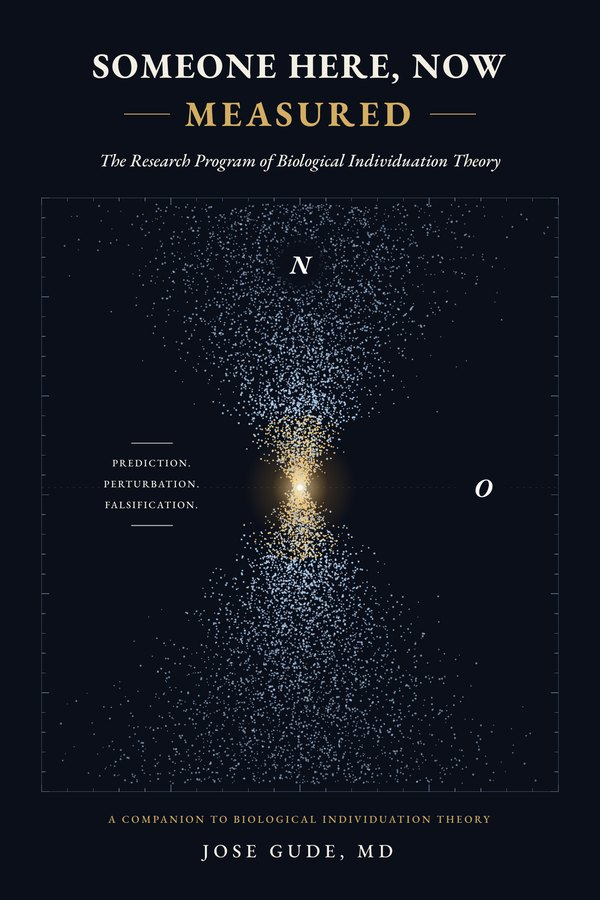
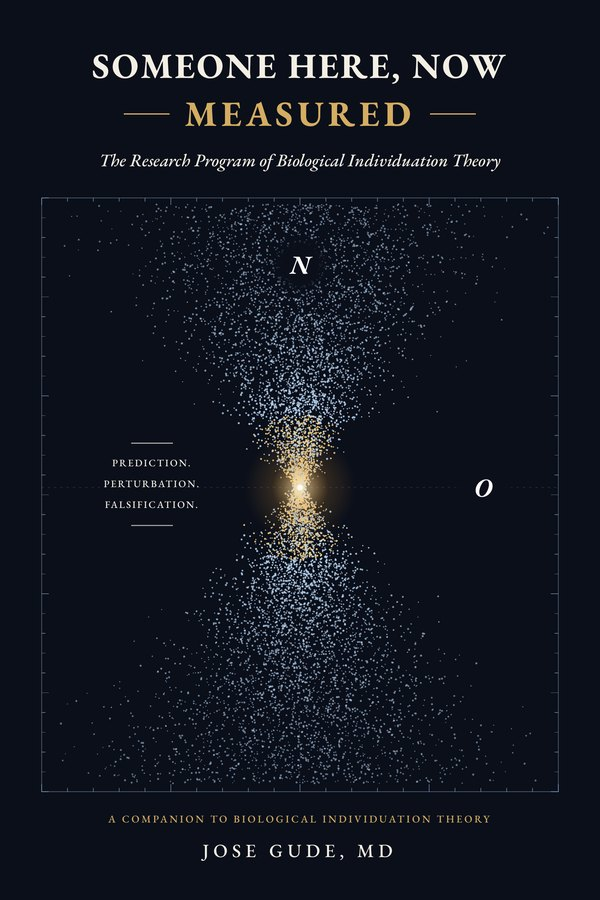
Works in Progress: full BIT cover; covers enlarge when clicked (EN + ES)
BIT now uses the rendered front cover (title and byline included) rather
than the bare artwork. Each cover opens in the site's existing lightbox,
which gains data-full (a larger file for the enlarged view) and keyboard
access (Tab, then Enter or Space).

Claude-Session: https://claude.ai/code/session_01FQfJPEHCVFgFPB9ZRz9oqS

diff --git a/es/works-in-progress.html b/es/works-in-progress.html
@@ -58,7 +58,7 @@
   <p class="eyebrow">No ficción &middot; los libros de BIT</p>
 
   <article class="wip-card" id="bit">
-    <img class="wip-cover" src="../assets/img/bit-cover.jpg" width="600" height="888" alt="Cubierta de Biological Individuation Theory: un reloj de arena de agua azul en remolino con un punto de luz en su centro" loading="lazy">
+    <img class="wip-cover zoomable" src="../assets/img/bit-cover.jpg" width="600" height="900" alt="Cubierta de Biological Individuation Theory: Consciousness, Life, and You — un reloj de arena de agua azul en remolino con un punto de luz en su centro" data-full="../assets/img/bit-cover-large.jpg" loading="lazy">
     <h2><em>Biological Individuation Theory</em></h2>
     <p class="wip-meta">(«Teoría de la individuación biológica») &middot; Conciencia, vida y tú &middot; manuscrito completo, en revisión</p>
     <p>Nos hemos vuelto muy buenos describiendo lo que hacen los cerebros. Por debajo de ese trabajo queda una pregunta: ¿por qué se experimenta algo de todo ello, y por qué se experimenta como <em>alguien</em>? Este libro deja a un lado la primera pregunta y persigue la segunda: ¿qué fija el límite de un sujeto, mantiene unida su experiencia como una sola y la lleva adelante como la misma perspectiva a lo largo de décadas de cambio?</p>
@@ -82,7 +82,7 @@
   </article>
 
   <article class="wip-card" id="shn">
-    <img class="wip-cover" src="../assets/img/shn-cover.jpg" width="600" height="900" alt="Cubierta de Someone Here, Now — Measured: un reloj de arena de puntos de luz dentro de un marco graduado" loading="lazy">
+    <img class="wip-cover zoomable" src="../assets/img/shn-cover.jpg" width="600" height="900" alt="Cubierta de Someone Here, Now — Measured: un reloj de arena de puntos de luz dentro de un marco graduado" data-full="../assets/img/shn-cover-large.jpg" loading="lazy">
     <h2><em>Someone Here, Now &mdash; Measured</em></h2>
     <p class="wip-meta">(«Alguien aquí, ahora &mdash; medido») &middot; El programa de investigación de la teoría de la individuación biológica &middot; borrador completo, sometido a revisión</p>
     <p><strong>¿Cómo podría perder una teoría de la conciencia?</strong> <em>Biological Individuation Theory</em> se preguntaba por qué la experiencia es de alguien y proponía que el organismo vivo es parte de la respuesta. Este volumen complementario se pregunta cómo podría demostrarse que esa propuesta es errónea.</p>
@@ -102,7 +102,7 @@
   </article>
 
   <article class="wip-card" id="shfw">
-    <img class="wip-cover" src="../assets/img/shfw-cover.jpg" width="600" height="857" alt="Cubierta de Someone Here for a While: un libro abierto sobre una mesa de madera a la luz de la tarde" loading="lazy">
+    <img class="wip-cover zoomable" src="../assets/img/shfw-cover.jpg" width="600" height="857" alt="Cubierta de Someone Here for a While: un libro abierto sobre una mesa de madera a la luz de la tarde" data-full="../assets/img/shfw-cover-large.jpg" loading="lazy">
     <h2><em>Someone Here for a While</em></h2>
     <p class="wip-meta">(«Alguien aquí por un tiempo») &middot; Sentido, mortalidad y los extremos abiertos &middot; manuscrito v2.0, en revisión</p>
     <p>El más personal de los tres. Donde el libro de teoría argumenta, este reflexiona: un libro en primera persona, escrito desde la vida de un médico, sobre lo que significa ser alguien durante un tiempo. No es una guía clínica ni una revisión de la literatura, y se apoya en los argumentos de <em>Biological Individuation Theory</em> con ligereza en lugar de repetirlos.</p>
@@ -127,7 +127,7 @@
   <p class="eyebrow">Ficción</p>
 
   <article class="wip-card" id="worldlines">
-    <img class="wip-cover" src="../assets/img/worldlines-cover.jpg" width="600" height="900" alt="Cubierta de Worldlines: finas líneas de luz sobre azul profundo que se cruzan en un punto luminoso" loading="lazy">
+    <img class="wip-cover zoomable" src="../assets/img/worldlines-cover.jpg" width="600" height="900" alt="Cubierta de Worldlines: finas líneas de luz sobre azul profundo que se cruzan en un punto luminoso" data-full="../assets/img/worldlines-cover-large.jpg" loading="lazy">
     <h2><em>Worldlines</em></h2>
     <p class="wip-meta">(«Líneas de universo») &middot; Una novela &middot; borrador completo, en revisión</p>
     <p>A las 3:04 de la madrugada, en un hospital del VA en Boise en 2035, un veterano de noventa y un años que lleva dos sin hablar empieza a describir un parto &mdash; con la voz de su difunta esposa, desde una sala de partos en la que nunca le dejaron entrar. Por la mañana ha muerto, y su hijo confirma detalles que solo su madre podía haber conocido.</p>
@@ -146,7 +146,7 @@
   </article>
 
   <article class="wip-card" id="proper-time">
-    <img class="wip-cover" src="../assets/img/proper-time-cover.jpg" width="600" height="886" alt="Cubierta de Proper Time: un arpa junto a una cama, con una ventana que da a las colinas de Boise al atardecer" loading="lazy">
+    <img class="wip-cover zoomable" src="../assets/img/proper-time-cover.jpg" width="600" height="886" alt="Cubierta de Proper Time: un arpa junto a una cama, con una ventana que da a las colinas de Boise al atardecer" data-full="../assets/img/proper-time-cover-large.jpg" loading="lazy">
     <h2><em>Proper Time</em></h2>
     <p class="wip-meta">(«Tiempo propio») &middot; Una novela &middot; secuela de <em>Worldlines</em> &middot; en preparación: mundo y esquema definidos, redacción aún no iniciada</p>
     <p>Boise, 2046. Naomi Murphy, tanatóloga musical que toca el arpa junto a la cabecera de los moribundos, está tocando para su propia madre cuando la anciana, sumida desde hace años en la demencia, despierta plenamente lúcida durante una hora, la llama por un nombre de infancia que nadie ha usado en décadas y tararea una melodía que Naomi no ha oído nunca. Dos días después su madre ha muerto.</p>
@@ -193,5 +193,6 @@
   </div>
 </footer>
 
+<script src="../assets/js/lightbox.js"></script>
 </body>
 </html>

diff --git a/works-in-progress.html b/works-in-progress.html
@@ -58,7 +58,7 @@
   <p class="eyebrow">Nonfiction &middot; the BIT books</p>
 
   <article class="wip-card" id="bit">
-    <img class="wip-cover" src="assets/img/bit-cover.jpg" width="600" height="888" alt="Cover of Biological Individuation Theory: an hourglass of swirling blue water with a point of light at its waist" loading="lazy">
+    <img class="wip-cover zoomable" src="assets/img/bit-cover.jpg" width="600" height="900" alt="Cover of Biological Individuation Theory: Consciousness, Life, and You — an hourglass of swirling blue water with a point of light at its waist" data-full="assets/img/bit-cover-large.jpg" loading="lazy">
     <h2><em>Biological Individuation Theory</em></h2>
     <p class="wip-meta">Consciousness, Life, and You &middot; complete manuscript, in revision</p>
     <p>We have become very good at describing what brains do. A question remains underneath that work: why is any of it experienced, and why is it experienced as <em>someone</em>? This book sets the first question aside and pursues the second: what fixes the boundary of one subject, holds its experience together as one, and carries it forward as the same perspective through decades of change?</p>
@@ -82,7 +82,7 @@
   </article>
 
   <article class="wip-card" id="shn">
-    <img class="wip-cover" src="assets/img/shn-cover.jpg" width="600" height="900" alt="Cover of Someone Here, Now — Measured: an hourglass of scattered points of light within a measured frame" loading="lazy">
+    <img class="wip-cover zoomable" src="assets/img/shn-cover.jpg" width="600" height="900" alt="Cover of Someone Here, Now — Measured: an hourglass of scattered points of light within a measured frame" data-full="assets/img/shn-cover-large.jpg" loading="lazy">
     <h2><em>Someone Here, Now &mdash; Measured</em></h2>
     <p class="wip-meta">The Research Program of Biological Individuation Theory &middot; full draft, in review</p>
     <p><strong>How could a theory of consciousness lose?</strong> <em>Biological Individuation Theory</em> asked why experience is someone's and proposed that the living organism is part of the answer. This companion volume asks how that proposal could be shown wrong.</p>
@@ -102,7 +102,7 @@
   </article>
 
   <article class="wip-card" id="shfw">
-    <img class="wip-cover" src="assets/img/shfw-cover.jpg" width="600" height="857" alt="Cover of Someone Here for a While: an open book on a wooden table in late sunlight" loading="lazy">
+    <img class="wip-cover zoomable" src="assets/img/shfw-cover.jpg" width="600" height="857" alt="Cover of Someone Here for a While: an open book on a wooden table in late sunlight" data-full="assets/img/shfw-cover-large.jpg" loading="lazy">
     <h2><em>Someone Here for a While</em></h2>
     <p class="wip-meta">Meaning, Mortality, and the Open Bookends &middot; manuscript v2.0, in revision</p>
     <p>The most personal of the three. Where the theory book argues, this one reflects: a first-person book, written from a physician's life, about what it means to be someone for a while. It is not a clinical guide or a review of the literature, and it leans on the arguments of <em>Biological Individuation Theory</em> lightly rather than repeating them.</p>
@@ -127,7 +127,7 @@
   <p class="eyebrow">Fiction</p>
 
   <article class="wip-card" id="worldlines">
-    <img class="wip-cover" src="assets/img/worldlines-cover.jpg" width="600" height="900" alt="Cover of Worldlines: fine lines of light on deep blue, crossing at a glowing point" loading="lazy">
+    <img class="wip-cover zoomable" src="assets/img/worldlines-cover.jpg" width="600" height="900" alt="Cover of Worldlines: fine lines of light on deep blue, crossing at a glowing point" data-full="assets/img/worldlines-cover-large.jpg" loading="lazy">
     <h2><em>Worldlines</em></h2>
     <p class="wip-meta">A novel &middot; complete draft, in revision</p>
     <p>At 3:04 in the morning, in a VA hospital in Boise in 2035, a ninety-one-year-old veteran who has not spoken in two years begins to describe giving birth &mdash; in his dead wife's voice, from a delivery room he was never allowed to enter. By morning he is dead, and his son confirms details only his mother could have known.</p>
@@ -146,7 +146,7 @@
   </article>
 
   <article class="wip-card" id="proper-time">
-    <img class="wip-cover" src="assets/img/proper-time-cover.jpg" width="600" height="886" alt="Cover of Proper Time: a harp beside a bed in a room whose window looks out on the Boise foothills at sunset" loading="lazy">
+    <img class="wip-cover zoomable" src="assets/img/proper-time-cover.jpg" width="600" height="886" alt="Cover of Proper Time: a harp beside a bed in a room whose window looks out on the Boise foothills at sunset" data-full="assets/img/proper-time-cover-large.jpg" loading="lazy">
     <h2><em>Proper Time</em></h2>
     <p class="wip-meta">A novel &middot; sequel to <em>Worldlines</em> &middot; in planning: world and outline settled, drafting not yet begun</p>
     <p>Boise, 2046. Naomi Murphy, a music thanatologist who plays harp at the bedsides of the dying, is playing for her own mother when the old woman, years deep in dementia, wakes fully lucid for an hour, calls her by a childhood name no one has used in decades, and hums a melody Naomi has never heard. Two days later her mother is dead.</p>
@@ -193,5 +193,6 @@
   </div>
 </footer>
 
+<script src="assets/js/lightbox.js"></script>
 </body>
 </html>

diff --git a/assets/js/lightbox.js b/assets/js/lightbox.js
@@ -1,6 +1,8 @@
 // Click-to-enlarge for any image marked .cover-large (originally for book
 // covers) or .zoomable (the general opt-in used elsewhere on the site —
-// e.g. the Dalí painting thumbnails in the golden-ratio explainer).
+// e.g. the Dalí painting thumbnails in the golden-ratio explainer, and the
+// covers on Works in Progress). An image may name a larger file in
+// data-full, which the overlay shows instead of the page-sized one.
 // On click, opens the image in a full-screen overlay. Close by clicking
 // the backdrop, the × button, or pressing Escape.
 (function () {
@@ -47,9 +49,16 @@
     });
 
     covers.forEach(function (c) {
+      // A larger file for the enlarged view, when the page names one.
+      var full = c.getAttribute('data-full') || '';
+      function show() { open(full || c.currentSrc || c.src, c.alt); }
       c.style.cursor = 'zoom-in';
-      c.addEventListener('click', function () {
-        open(c.src, c.alt);
+      c.addEventListener('click', show);
+      // Reachable from the keyboard too: Tab to the image, Enter or Space.
+      if (!c.hasAttribute('tabindex')) c.setAttribute('tabindex', '0');
+      c.setAttribute('role', 'button');
+      c.addEventListener('keydown', function (e) {
+        if (e.key === 'Enter' || e.key === ' ') { e.preventDefault(); show(); }
       });
     });
   });
